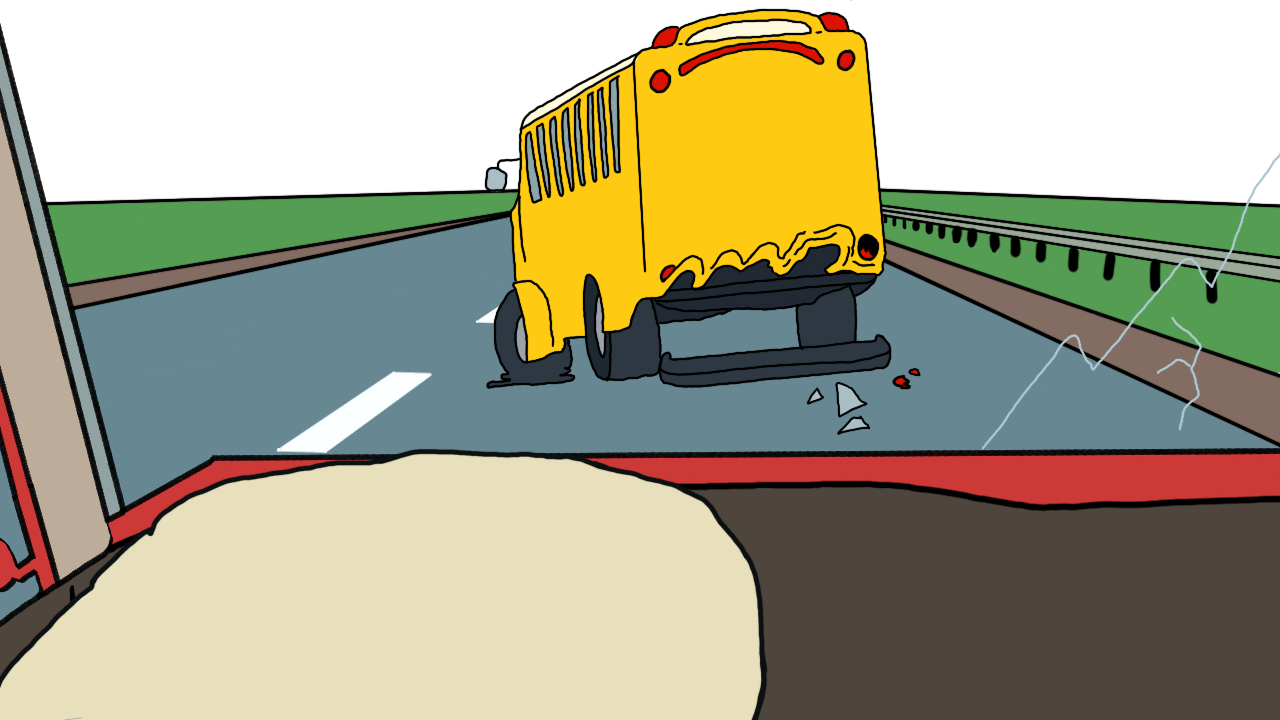
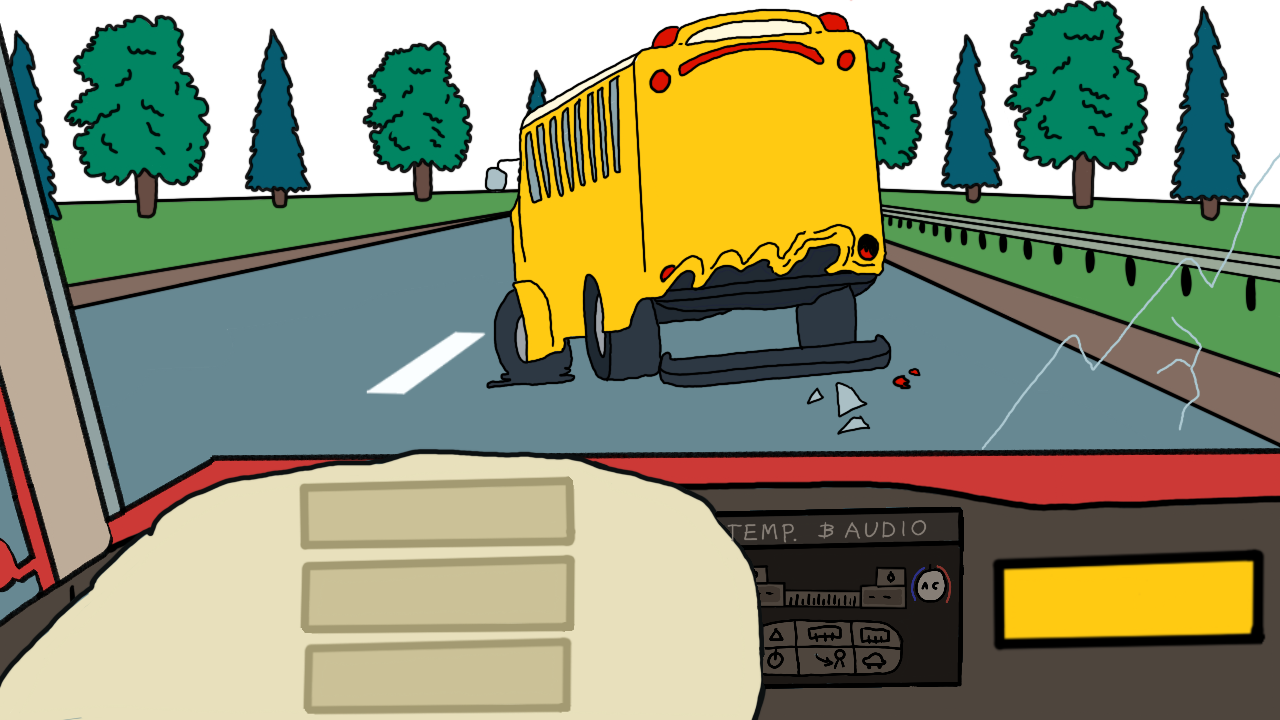
New UI Layouts and Indicators

diff --git a/src/scenes/Gameover.js b/src/scenes/Gameover.js
@@ -30,13 +30,13 @@ class Gameover extends Phaser.Scene {
         this.add.image(640, 380, "gameOverScene");
 
         // Display "GAME OVER" text
-        this.add.text(640, 250, "GAME", {
+        this.add.text(760, 145, "GAME", {
             fontSize: "64px",
             fontStyle: "bold",
             fill: "#ff0000"
         }).setOrigin(0.5);
 
-        this.add.text(840, 300, "OVER", {
+        this.add.text(760, 200, "OVER", {
             fontSize: "64px",
             fontStyle: "bold",
             fill: "#ff0000"
@@ -51,20 +51,17 @@ class Gameover extends Phaser.Scene {
         let formattedLastScore = `${minutes.toString().padStart(2, '0')}:${seconds.toString().padStart(2, '0')}`;
 
         // Display "Your Time: MM:SS" on the Game Over screen
-        this.add.text(640, 320, `Your Time: ${formattedLastScore}`, {
-            fontSize: "35px",
+        this.add.text(1130, 620, `Your Time: ${formattedLastScore}`, {
+            fontSize: "23px",
             fontStyle: "bold",
-            fill: "#FF4500",  // Orange-Red color for visibility
-            stroke: "#000000", // Black outline for contrast
-            strokeThickness: 4
+            fill: "#1c1815", // Black outline for contrast
         }).setOrigin(0.5, 0.5);
 
         // Restart Button
-        let restartButton = this.add.text(640, 400, "Restart Game", {
+        let restartButton = this.add.text(445, 537, "Restart Game", {
             fontSize: "28px",
             fontStyle: "bold",
-            fill: "#FFFFFF",
-            backgroundColor: "#228B22", // Green button
+            fill: "#1c1815",
             padding: { x: 15, y: 5 }
         }).setOrigin(0.5).setInteractive();
 
@@ -95,11 +92,10 @@ class Gameover extends Phaser.Scene {
         
 
         // Main Menu Button
-        let menuButton = this.add.text(640, 500, "Main Menu", {
+        let menuButton = this.add.text(450, 615, "Main Menu", {
             fontSize: "28px",
             fontStyle: "bold",
-            fill: "#FFFFFF",
-            backgroundColor: "#0000FF",  // Blue button
+            fill: "#1c1815",
             padding: { x: 15, y: 5 }
         }).setOrigin(0.5).setInteractive();
 
@@ -125,9 +121,42 @@ class Gameover extends Phaser.Scene {
             // Transition to the main menu
             this.scene.start("menuScene");
         });
+
+
+        // Restart Button
+        let creditsButton = this.add.text(445, 700, "Credits", {
+            fontSize: "28px",
+            fontStyle: "bold",
+            fill: "#1c1815",
+            padding: { x: 15, y: 5 }
+        }).setOrigin(0.5).setInteractive();
+
+        creditsButton.on("pointerdown", () => {
+            console.log("Credits..")
+        
+            // Stop and fully remove EventManagerScene before restarting
+            if (this.scene.get("EventManagerScene")) {
+                this.scene.stop("EventManagerScene");
+                this.scene.remove("EventManagerScene");
+            }
+        
+            // Stop all active scenes before restarting
+            this.scene.stop("playScene");
+            this.scene.stop("MiniGameScene");
+            this.scene.stop("MiniGameScene2");
+        
+            // Stop all sounds and reset game state
+            this.sound.stopAll();
+            this.time.removeAllEvents();
+            this.tweens.killAll();
+        
+            // Restart the game fresh
+            this.scene.start("creditsScene");
+        });
         
 
     }
+
     
     resetGameState() {
         // Stop all sounds

diff --git a/src/scenes/Credits.js b/src/scenes/Credits.js
@@ -122,32 +122,65 @@ class Credits extends Phaser.Scene {
             fill: "#FFFFFF"
         }).setOrigin(0.5);
 
-        this.add.text(745, 585, "by hatchetgirl, ", {
+        this.add.text(745, 585, "by hatchetgirl", {
             fontSize: "12px",
             fontStyle: "bold",
             fill: "#FFFFFF"
         }).setOrigin(0.5);
 
-        this.add.text(875, 585, "https://freesound.org", {
+        this.add.text(778, 600, "'Guitar Background Sample'", {
             fontSize: "12px",
             fontStyle: "bold",
             fill: "#FFFFFF"
         }).setOrigin(0.5);
 
-        this.add.text(720, 600, "/peoplehat", {
-            fontSize: "12px",
-            fontStyle: "bold",
-            fill: "#FFFFFF"
-        }).setOrigin(0.5);
-        
-        this.add.text(840, 600, "chetgirl/sounds/207441/", {
+        this.add.text(735, 612, "by uEffects", {
             fontSize: "12px",
             fontStyle: "bold",
             fill: "#FFFFFF"
         }).setOrigin(0.5);
 
+        this.add.text(768, 625, "'Continuous Static.wav'", {
+            fontSize: "12px",
+            fontStyle: "bold",
+            fill: "#FFFFFF"
+        }).setOrigin(0.5);
+
+        this.add.text(720, 637, "by Jace", {
+            fontSize: "12px",
+            fontStyle: "bold",
+            fill: "#FFFFFF"
+        }).setOrigin(0.5);
+
+        this.add.text(790, 650, "'230707 Car alarm horn honks'", {
+            fontSize: "12px",
+            fontStyle: "bold",
+            fill: "#FFFFFF"
+        }).setOrigin(0.5);
+
+        this.add.text(717, 663, "by TRP", {
+            fontSize: "12px",
+            fontStyle: "bold",
+            fill: "#FFFFFF"
+        }).setOrigin(0.5);
+
+        this.add.text(770, 675, "'Car Crash (with Glass)'", {
+            fontSize: "12px",
+            fontStyle: "bold",
+            fill: "#FFFFFF"
+        }).setOrigin(0.5);
+
+        this.add.text(737, 687, "magnuswanker", {
+            fontSize: "12px",
+            fontStyle: "bold",
+            fill: "#FFFFFF"
+        }).setOrigin(0.5);
 
 
+
+        //"" by magnuswanker from Freesound.org, Creative Commons 0
+        // https://freesound.org/people/magnuswaker/sounds/592388/
+        this.load.audio("crash", "assets/crash.wav")
     
         // Main Menu Button
         let menuButton = this.add.text(1130, 585, "Main Menu", {

diff --git a/src/scenes/Play.js b/src/scenes/Play.js
@@ -10,7 +10,7 @@ class Play extends Phaser.Scene {
             this.scene.remove("EventManagerScene");
         }
     
-        // ✅ Add and launch a fresh instance of EventManagerScene
+        // Add and launch a fresh instance of EventManagerScene
         this.scene.add("EventManagerScene", EventManager, true);
         this.scene.launch("EventManagerScene");
 
@@ -120,8 +120,23 @@ class Play extends Phaser.Scene {
         // Start smooth decrease of patience over 20 seconds
         this.startPatienceDecrease();
 
+         // Create a white box underneath miniGameButton
+         this.flashBox = this.add.rectangle(819, 620, 300, 200, 0xffffff).setOrigin(0.5).setAlpha(0); // Initially invisible
+
+         // Flashing animation using tweens
+         this.tweens.add({
+             targets: this.flashBox,
+             alpha: { from: 0, to: 1 },
+             duration: 500, // Flash duration (milliseconds)
+             yoyo: true, // Makes it go back and forth
+             repeat: -1 // Infinite repeat
+         });
+
         // Create the image (non-interactive)
         this.miniGameButton = this.add.image(640, 380, "startMiniGame").setOrigin(0.5).setScale(1);
+
+       
+
 
         // Define hitbox size & position (Adjust X, Y, width, height)
         let hitboxX = 820;  // X position (adjust as needed)
@@ -211,7 +226,7 @@ class Play extends Phaser.Scene {
 
     startPatienceDecrease() {
         if (!this.patienceTween || !this.patienceTween.isPlaying()) {
-            this.patienceTween = this.smoothDecrease(this.patienceBar, 0, 15000);
+            this.patienceTween = this.smoothDecrease(this.patienceBar, 0, 1000); // 15000
         }
     }
 
@@ -279,7 +294,7 @@ class Play extends Phaser.Scene {
             return;
         }
 
-        this.rageTween = this.smoothIncrease(this.rageBar, this.rageBar.maxValue, 15000);
+        this.rageTween = this.smoothIncrease(this.rageBar, this.rageBar.maxValue, 1000); // 15000
     }
 
     triggerGameOver() {

diff --git a/src/scenes/Menu.js b/src/scenes/Menu.js
@@ -93,7 +93,7 @@ class Menu extends Phaser.Scene {
         let StartButton = this.add.text(820, 590, 'Start Game', {
             fontSize: "28px",
             fontStyle: "bold",
-            fill: "#FFFFFF",
+            fill: "#1c1815",
             padding: { x: 15, y: 5 }
         })
             .setOrigin(0.5)
@@ -107,7 +107,7 @@ class Menu extends Phaser.Scene {
          let CreditsButton = this.add.text(1120, 588, 'Credits Text', {
             fontSize: "28px",
             fontStyle: "bold",
-            fill: "#FFFFFF",
+            fill: "#1c1815",
             padding: { x: 15, y: 5 }
         })
          .setOrigin(0.5)

diff --git a/src/scenes/EventManager.js b/src/scenes/EventManager.js
@@ -9,7 +9,7 @@ class EventManager extends Phaser.Scene {
 
     create() {
         // Event Text (Displays the scenario)
-        this.eventText = this.add.text(640, 100, "Waiting for an event...", {
+        this.eventText = this.add.text(640, 800, "Waiting for an event...", {
             fontSize: "24px",
             fill: "#fff",
             backgroundColor: "#00000080"

diff --git a/src/main.js b/src/main.js
@@ -1,7 +1,7 @@
 let config = {
     type: Phaser.AUTO,
     width: 1280,
-    height: 720,
+    height: 820,
     scene: [ Preload, Menu, Credits, Play, MiniGame, MiniGame2, Gameover],
     physics: {
       default: 'arcade',
@@ -12,3 +12,5 @@ let config = {
 };
 
 let game = new Phaser.Game(config);
+
+//[ Preload, Menu, Credits, Play, MiniGame, MiniGame2, Gameover],
